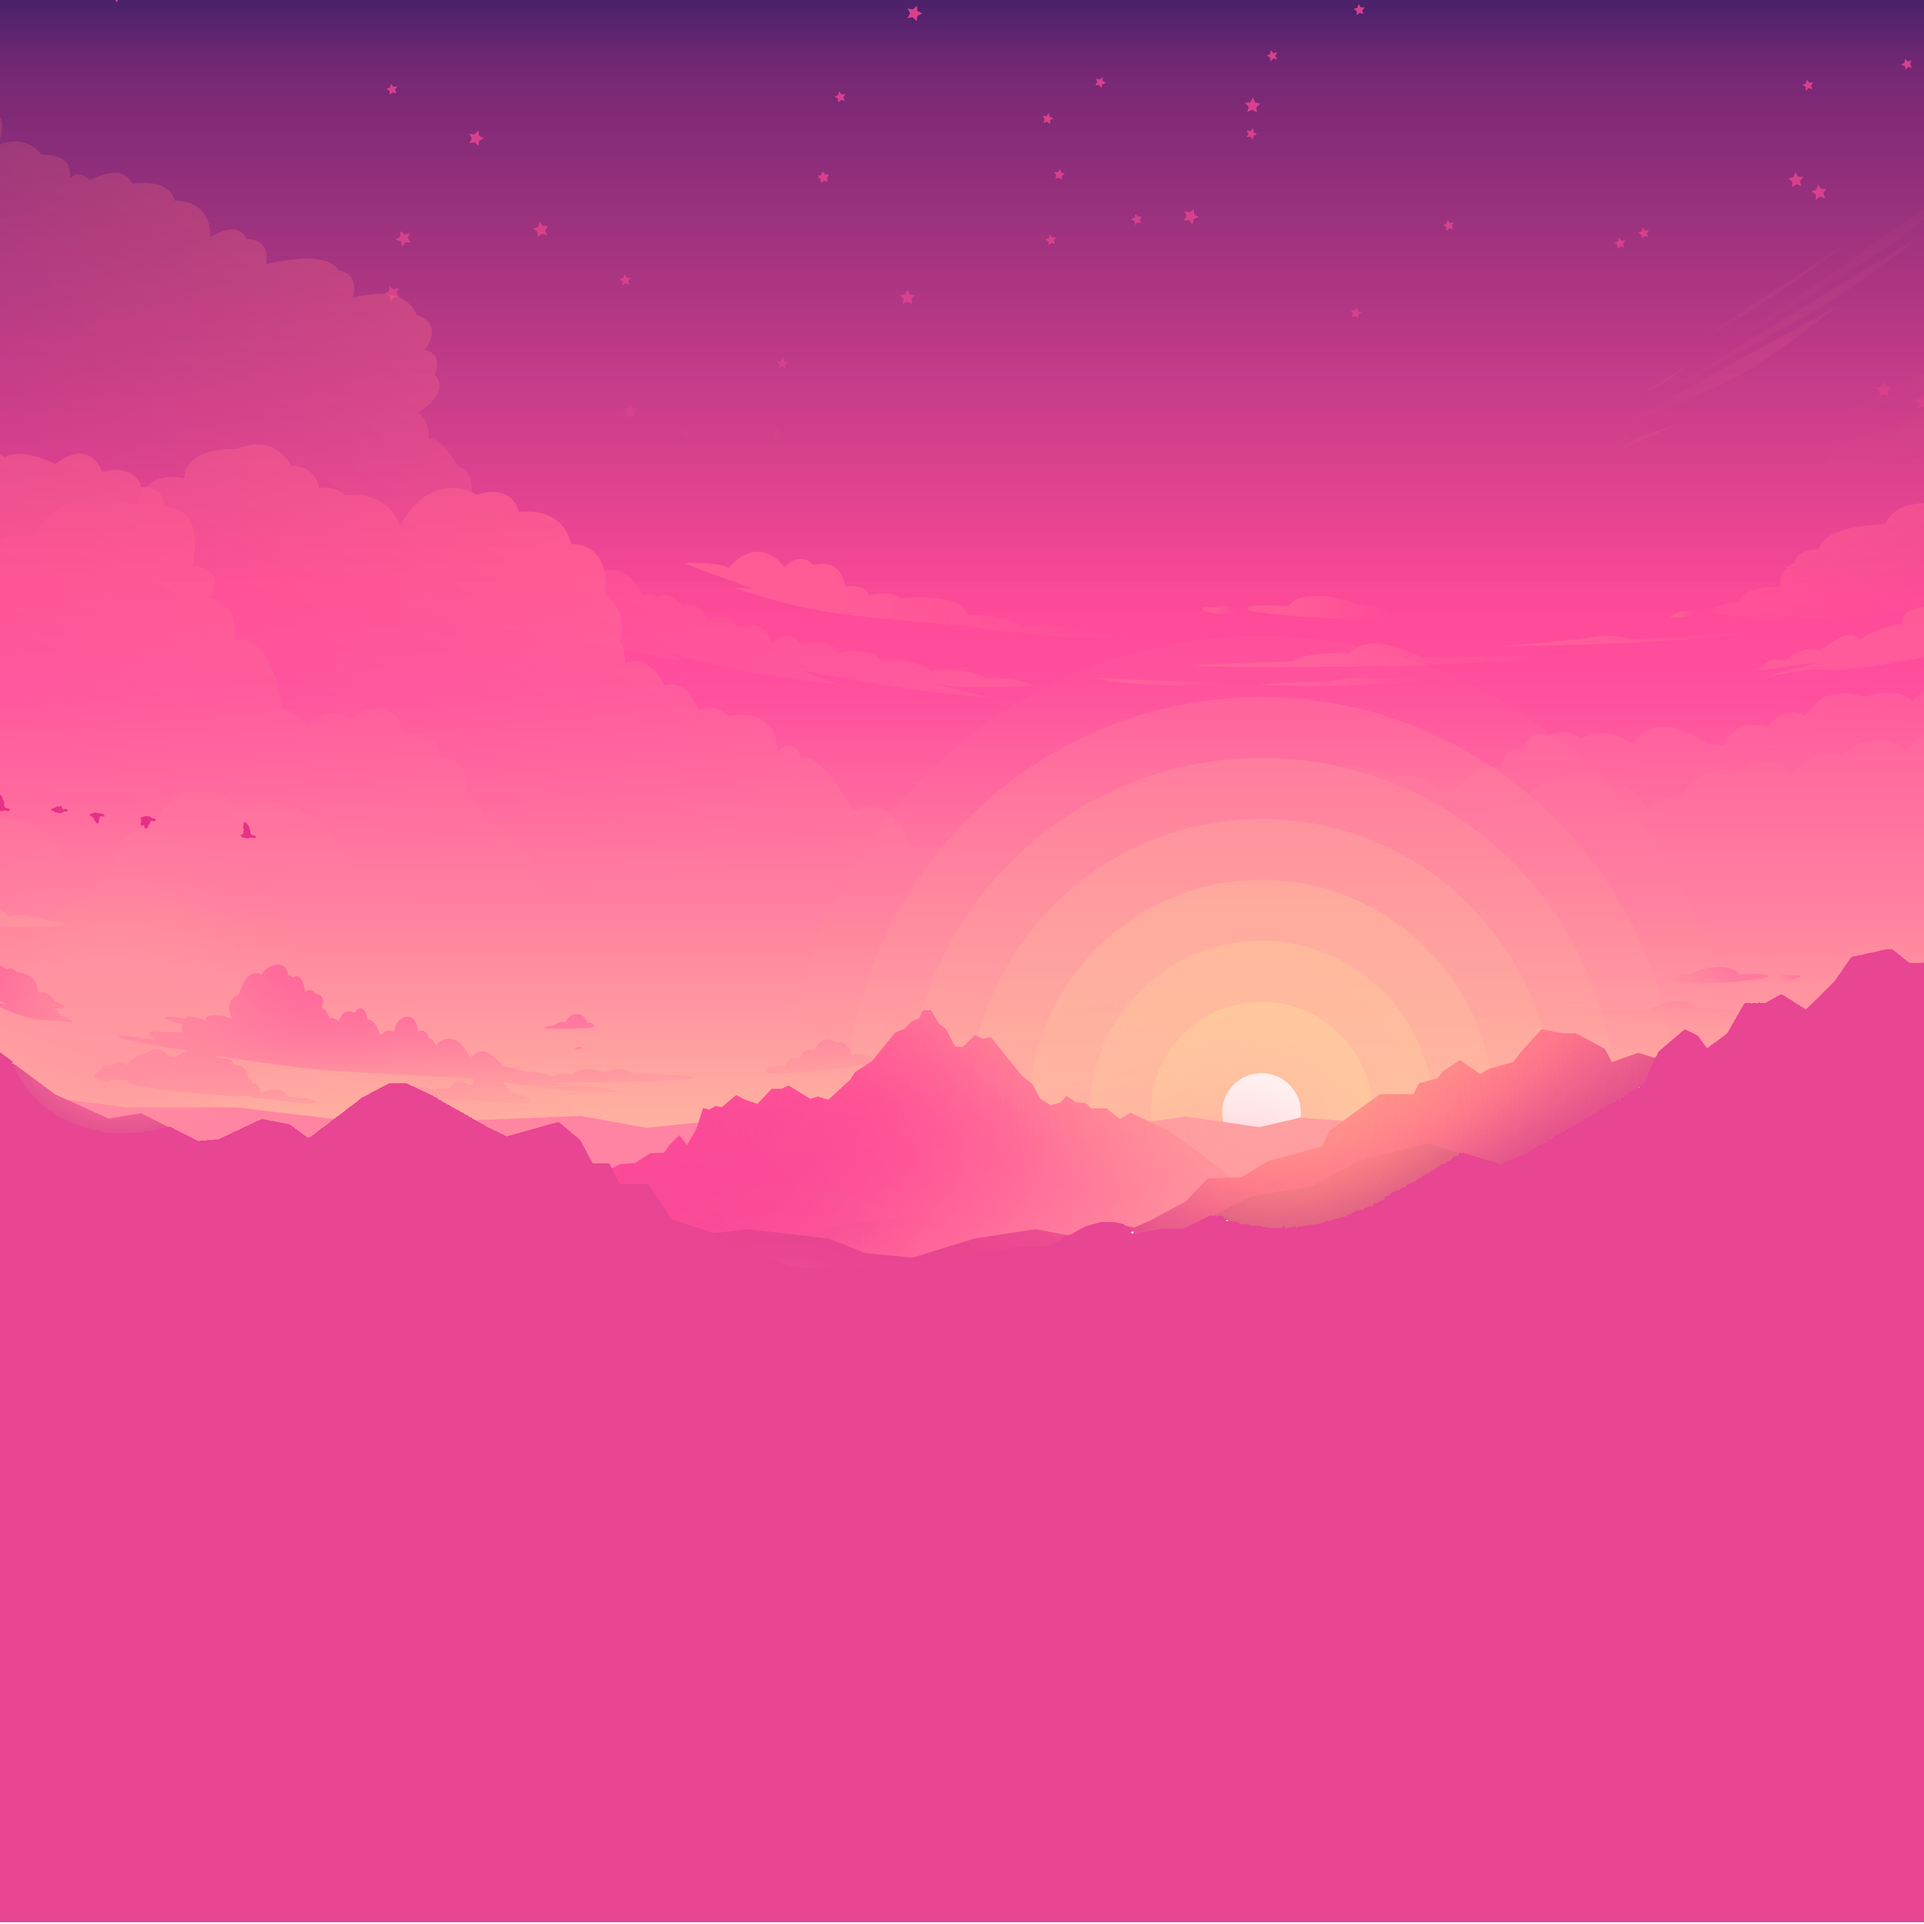
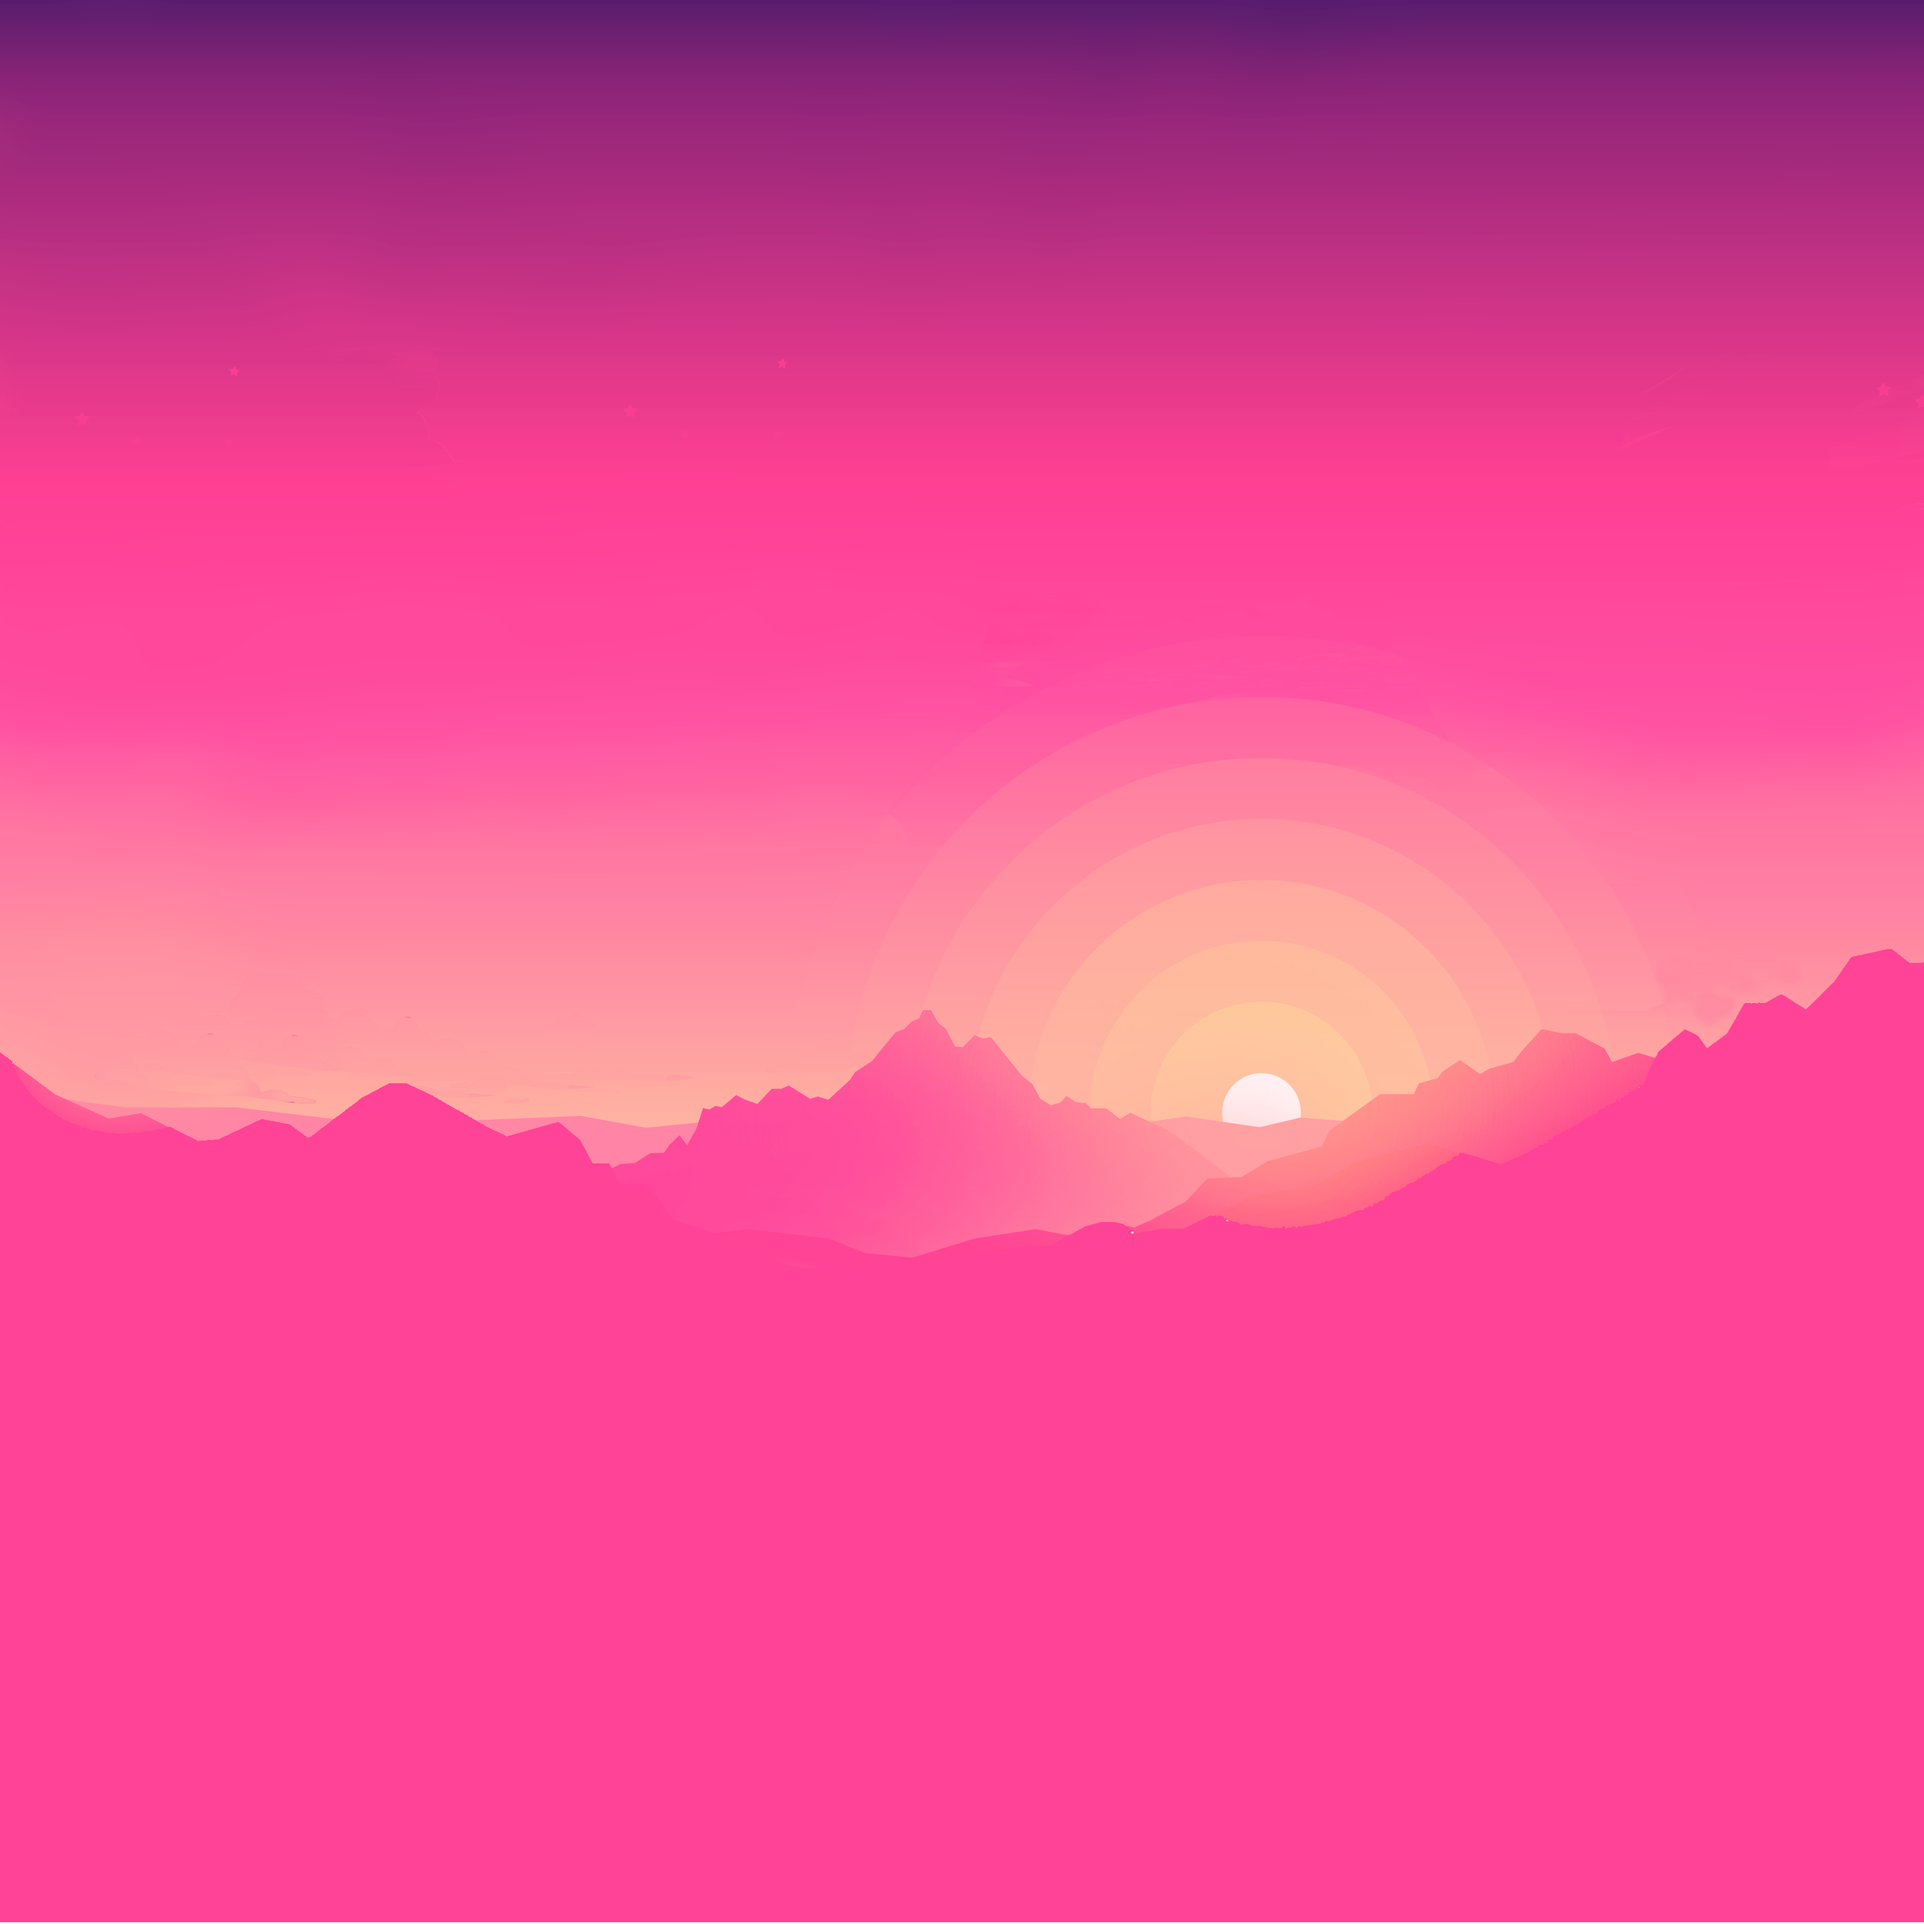
mais parallax

diff --git a/scripts/script.js b/scripts/script.js
@@ -18,7 +18,9 @@ function hab(id, state) {
 
     state == true? p[0].hidden = false: p[0].hidden = true;
 }
-
+    var layer5 = document.getElementById("layer5");
+    var layer4e = document.getElementById("layer4e");
+    var layer4d = document.getElementById("layer4d");
     var layer3 = document.getElementById("layer3");
     var layer2 = document.getElementById("layer2");
     var layer1 = document.getElementById("layer1");
@@ -26,6 +28,10 @@ function hab(id, state) {
     addEventListener('scroll', function(){
         var value = window.scrollY;
 
+        layer5.style.left = `${-value * 1}px`;
+        layer5.style.bottom = `${-value * 0.3}px`;
+        layer4e.style.left = `${-value * 0.6}px`;
+        layer4d.style.right = `${-value * 0.6}px`;
         layer3.style.top = `${-value * 0.00}px`;
         layer2.style.top = `${-value * 0.15}px`;
         layer1.style.top = `${-value * 0.50}px`;

diff --git a/index.html b/index.html
@@ -14,6 +14,9 @@
 </head>
 <body onload="type()" onload="parallax()">
     <div id="background">
+        <img src="src/layer5.png" alt="" id="layer5">
+        <img src="src/layer4d.png" alt="" id="layer4d">
+        <img src="src/layer4e.png" alt="" id="layer4e">
         <img src="src/layer3.png" alt="" id="layer3">
         <img src="src/layer2.png" alt="" id="layer2">
         <img src="src/layer1.png" alt="" id="layer1">

diff --git a/estilo/background.css b/estilo/background.css
@@ -19,6 +19,18 @@
     margin-top: -160px;
 }
 #layer3{
-    z-index: -3;
+    z-index: -5;
     margin-top: -180px;
+}
+#layer5{
+    z-index: -3;
+    margin-top: -50px;
+}
+#layer4e{
+    z-index: -4;
+    margin-top: -50px;
+}
+#layer4d{
+    z-index: -4;
+    margin-top: -50px;
 }

diff --git a/estilo/desktop.css b/estilo/desktop.css
@@ -3,6 +3,7 @@ html{
     padding: 0;
     margin: 0;
     background-color: #231c64;
+    overflow-x: hidden;
 }
 body{
     margin: 0;
